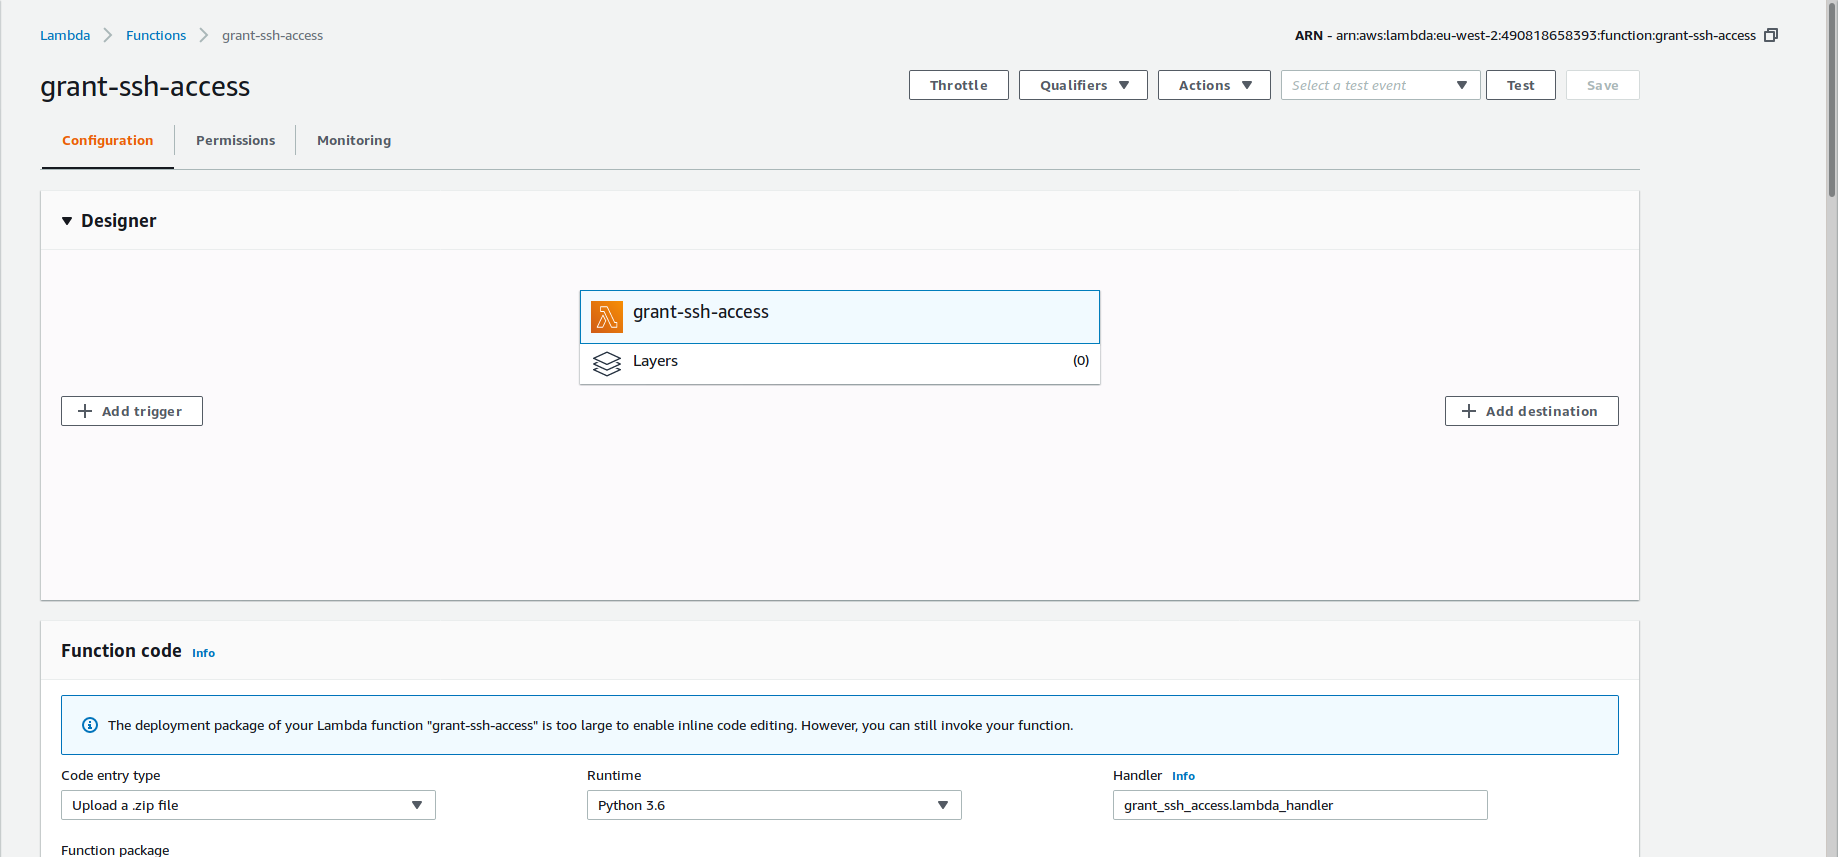
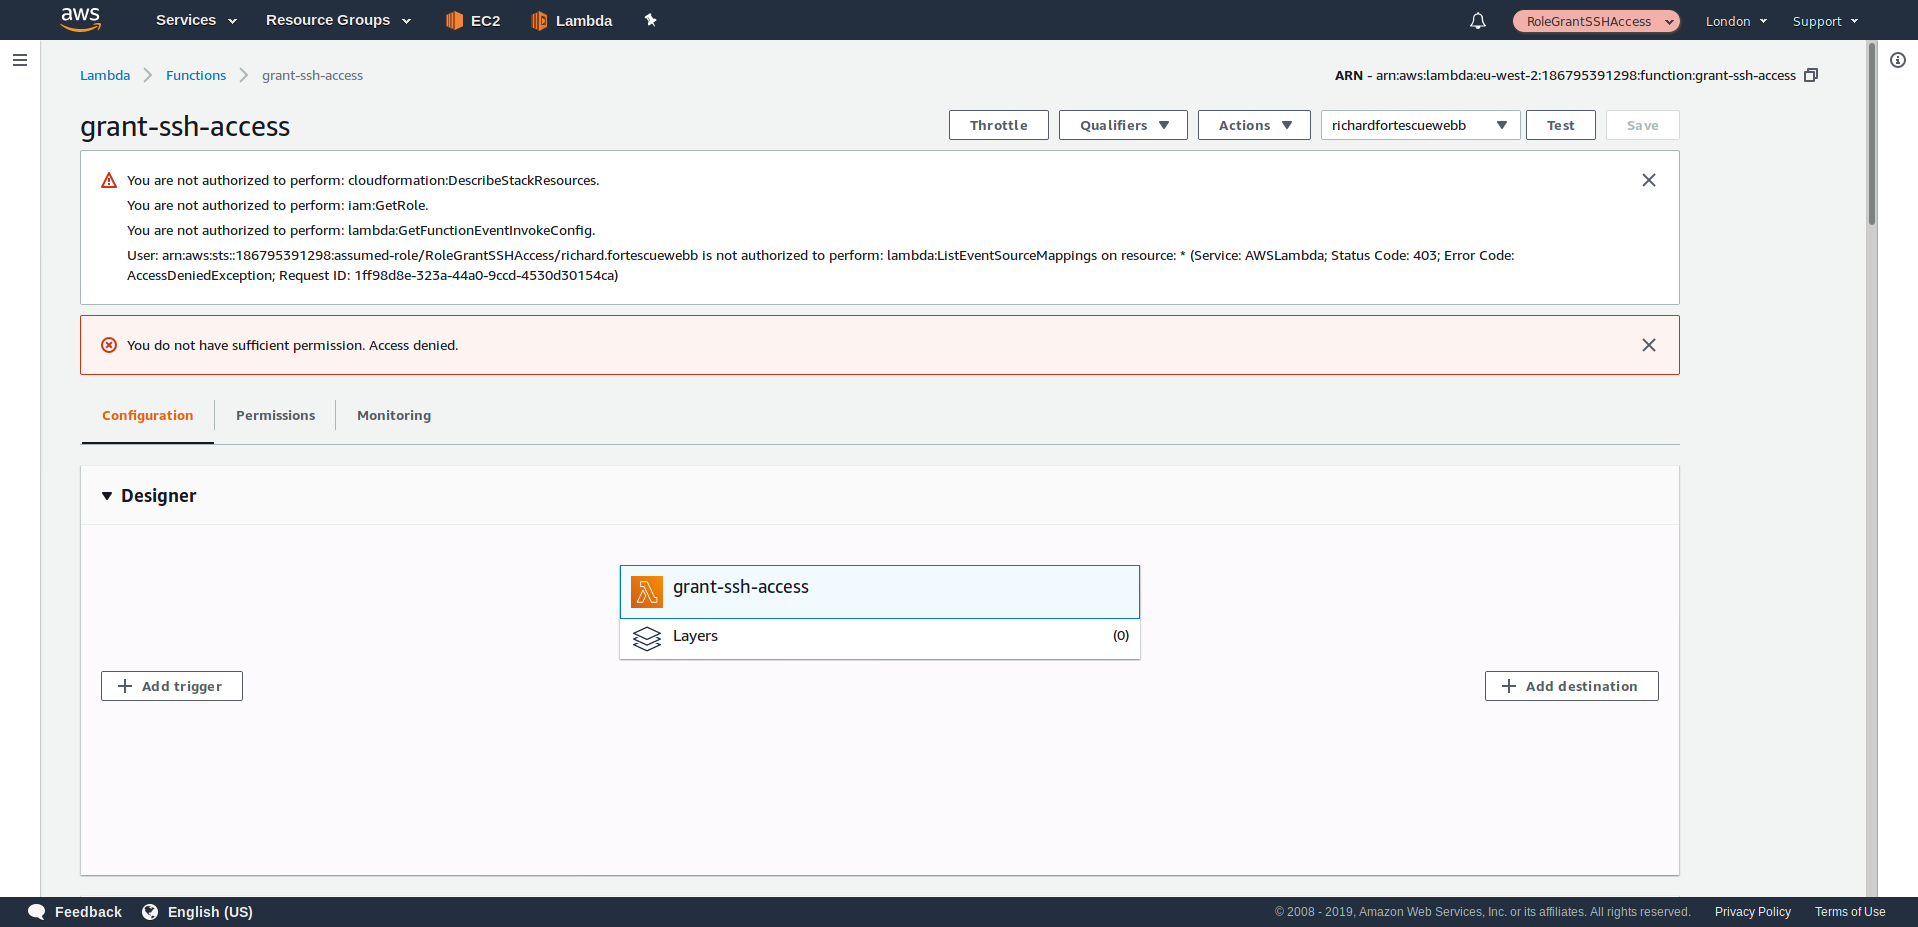
Update images and docs

diff --git a/README.md b/README.md
@@ -36,6 +36,7 @@ The process is as follows:
 
 
 2. Navigate to the grant-ssh-access lambda in the AWS console. [Link](https://eu-west-2.console.aws.amazon.com/lambda/home?region=eu-west-2#/functions/grant-ssh-access?tab=configuration)
+  - You may see some error messages about permissions. This is not a problem.
 3. You will see a screen as follows: ![](images/lambda-view.png)
 4. Click the 'Select a test event' dropdown menu at the top right of the page and click Configure test events: ![](images/select-a-test-event.png)
 5. You will see a popup appear. Delete the JSON shown, and replace it with the JSON the engineer sent you: ![](images/replace-json.png)
@@ -43,10 +44,12 @@ The process is as follows:
 7. Ensure the event that you just created is selected, and click the 'Test' button: ![](images/event-selected.png)
 8. Once the lambda has successfully executed, you will see a green box with something like this:
 ```
-{ "token": "12joi1j2oijb1ij2voij1vij1" }
+{ 
+  "token": "12joi1j2oijb1ij2voij1vij1" 
+}
 ```
-![](images/success-screenshot.png)
-9. Send the content of the message to the engineer who requested access. The token is not sensitive, so can be sent via slack / email / pigeon.
+![](images/success-lambda.png)
+9. Send the token to the engineer who requested access. The token is not sensitive, so can be sent via slack / email / pigeon.
 
 ## Instructions for running AWS command
 If the engineer sent you an AWS command to run.
